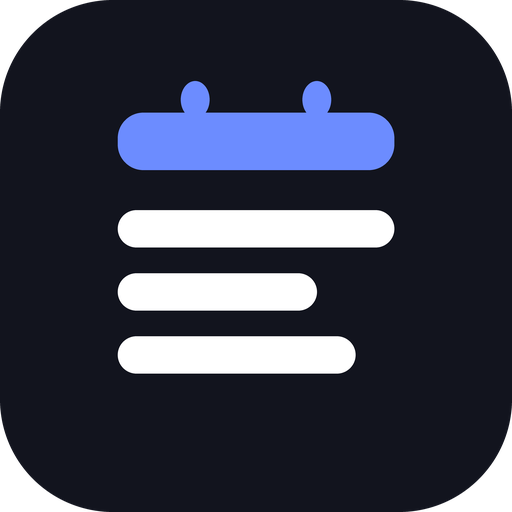
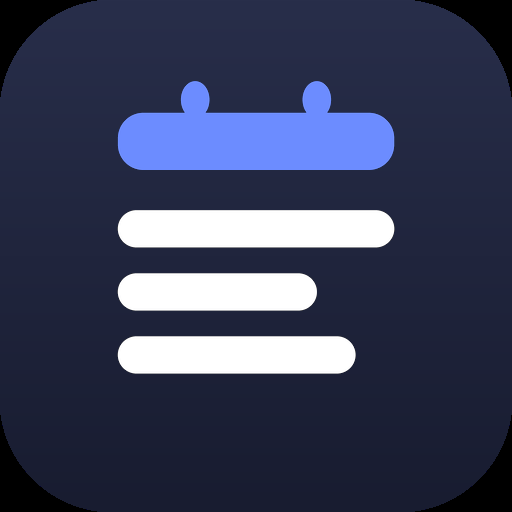
Maskeli simge BOMBOSTU -- kuran kisi ana ekranda isaretsiz kare goruyordu
BULUNUS: `ikon-maskeli.png` 512x512'lik DUZ BIR RENK idi. Her pikseli
ayni (18,20,30); hicbir isaret yoktu. Yani uygulamayi Android'e kuran
kisinin ana ekraninda ISARETSIZ BIR KARE duruyordu.

BU KUSUR NEDEN BU KADAR YASADI: yalnizca KURDUKTAN sonra gorunur.
Tarayicida, sekmede, sayfada her sey dogru; `any` simgeler saglam.
Kimse kurup ana ekrana bakmadikca kusur kendini hic gostermez.
Ayni tarama Muhasebe'de de bos maskeli simge buldu (sahibine bildirildi).

IKINCI KUSUR: zemin neredeyse siyahti (parlaklik 0.0072). Koyu temali
bir ana ekranda simge arka planla birlesip "delik" gibi duruyordu --
sekli degil yalnizca isareti gorunuyordu. Portalda ayni sorunu bugun
duzelttim; buradaki ucuncu ornekti.

YAPILAN:
  · ikon-192 / ikon-512: zemin derin lacivert gecise cekildi
    (0.0072 -> 0.0198). Isarete DOKUNULMADI, kimlik ayni.
  · ikon-maskeli: isaret parlaklikla ayiklanip temiz zemine oturtuldu,
    guvenli alana sigacak sekilde (%62). Android simgeyi daire, damla
    ya da yuvarlak kare olarak kirpar.
  · Damga v21 -> v22 (sw.js + index.html birlikte). Simgeler ON
    ONBELLEKTE; surum artmazsa yeni simge mevcut kullaniciya HIC
    ULASMAZ.

BIR YANLIS DENEMEM VAR, YAZIYORUM: maskeli simgeyi once `any` simgeyi
kucultup zemine koyarak urettim. O simgenin koseleri yuvarlak ve kose
disi siyah; kucultunce siyah koseler yeni zeminin ICINDE kaldi ve simge
"ic ice iki kutu" gibi gorundu. SAYILAR TAMAM DIYORDU (fark 255) cunku
[…]

diff --git a/index.html b/index.html
@@ -11,7 +11,7 @@
     <link rel="apple-touch-icon" href="ikon-192.png" />
     <meta name="apple-mobile-web-app-capable" content="yes" />
     <meta name="apple-mobile-web-app-status-bar-style" content="black-translucent" />
-    <link rel="stylesheet" href="stil.css?v=21" />
+    <link rel="stylesheet" href="stil.css?v=22" />
 </head>
 <body>
     <header>
@@ -372,15 +372,15 @@
     </div>
 
     <!-- Önce çekirdek (mantık), sonra arayüz (görünüm) yüklenir -->
-    <script src="cekirdek.js?v=21"></script>
-    <script src="arayuz.js?v=21"></script>
+    <script src="cekirdek.js?v=22"></script>
+    <script src="arayuz.js?v=22"></script>
     <script>
         // Çevrimdışı çalışma (PWA): service worker'ı kaydet
         if ("serviceWorker" in navigator && location.protocol !== "file:") {
             navigator.serviceWorker.register("sw.js");
         }
     </script>
-<script src="kurulum.js?v=21"></script>
+<script src="kurulum.js?v=22"></script>
 <script>
 /* KURULUM DAVETI -- ortak modul: HESAP MAKINESI\ortak\kurulum.js
    Anahtar UYGULAMAYA OZEL: ortak anahtar olsaydi bir uygulamada

diff --git a/sw.js b/sw.js
@@ -2,7 +2,7 @@
 // Uygulamayı çevrimdışı da çalıştırır: dosyaları önbelleğe alır.
 // Yeni sürüm çıkarınca SURUM'u artır ki herkese taze dosyalar gitsin.
 
-const SURUM = "planlayici-v21";
+const SURUM = "planlayici-v22";
 const DOSYALAR = [
     // ⚠ BU LİSTE index.html'İ BİREBİR YANSITMALI.
     // Ölçüldü (27.08.2026, CANLIDA): index.html "cekirdek.js?v=19" istiyordu,
@@ -14,9 +14,9 @@ const DOSYALAR = [
     "./",
     "./index.html",
     "./kurulum.js",
-    "./stil.css?v=21",
-    "./cekirdek.js?v=21",
-    "./arayuz.js?v=21",
+    "./stil.css?v=22",
+    "./cekirdek.js?v=22",
+    "./arayuz.js?v=22",
     "./manifest.json",
     "./ikon-192.png",
     "./ikon-512.png",
